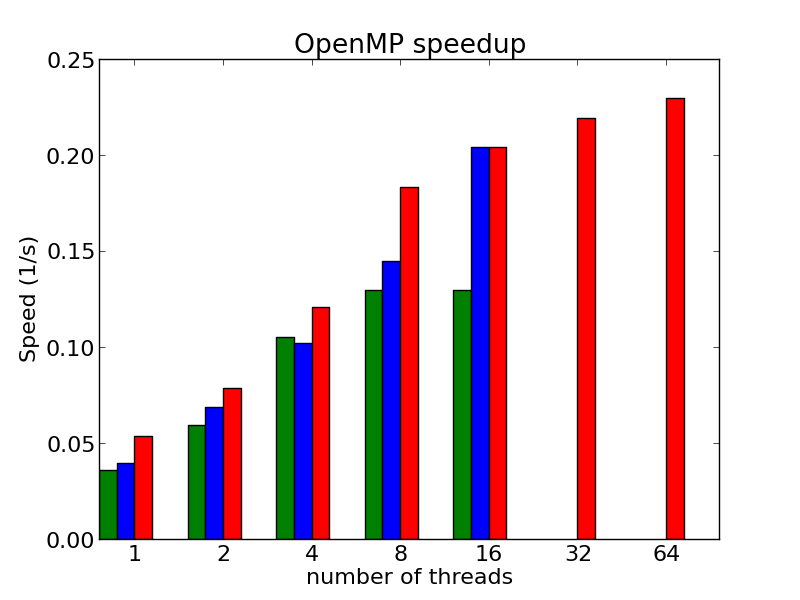
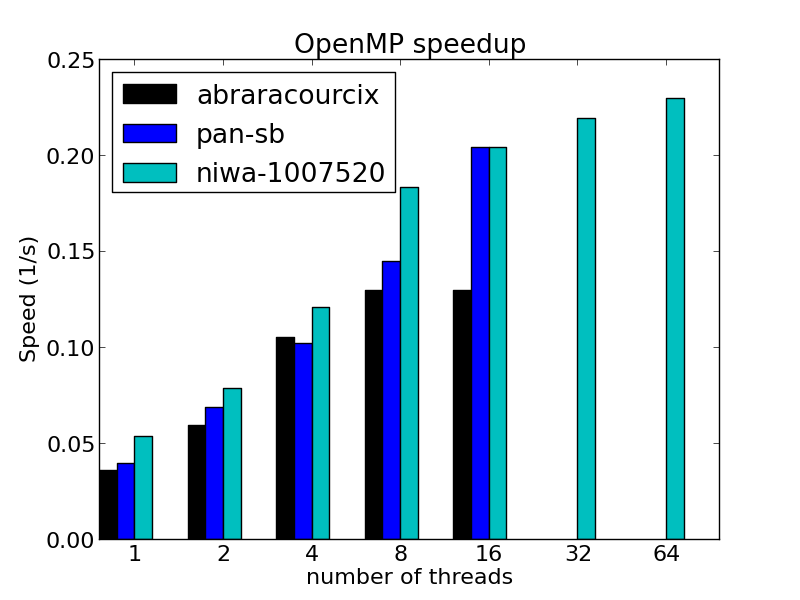
~

diff --git a/scripts/fdi_upwind_openmp.py b/scripts/fdi_upwind_openmp.py
@@ -129,7 +129,7 @@ fig, ax = plt.subplots()
 width = 0.2
 
 count = 0
-colors = ['g', 'b', 'r']
+colors = ['k', 'b', 'c']
 for c in ('abraracourcix', 'pan-sb', 'niwa-1007520'):
     nth = sorted(results[c]['time s'])
     inds = [i + count*width for i in range(len(nth))]
@@ -141,5 +141,6 @@ ax.set_xlabel('number of threads')
 ax.set_title('OpenMP speedup')
 ax.set_xticks(inds)
 ax.set_xticklabels(['{}'.format(n) for n in nth])
+ax.legend(('abraracourcix', 'pan-sb', 'niwa-1007520'), loc=2)
 plt.show()
 
